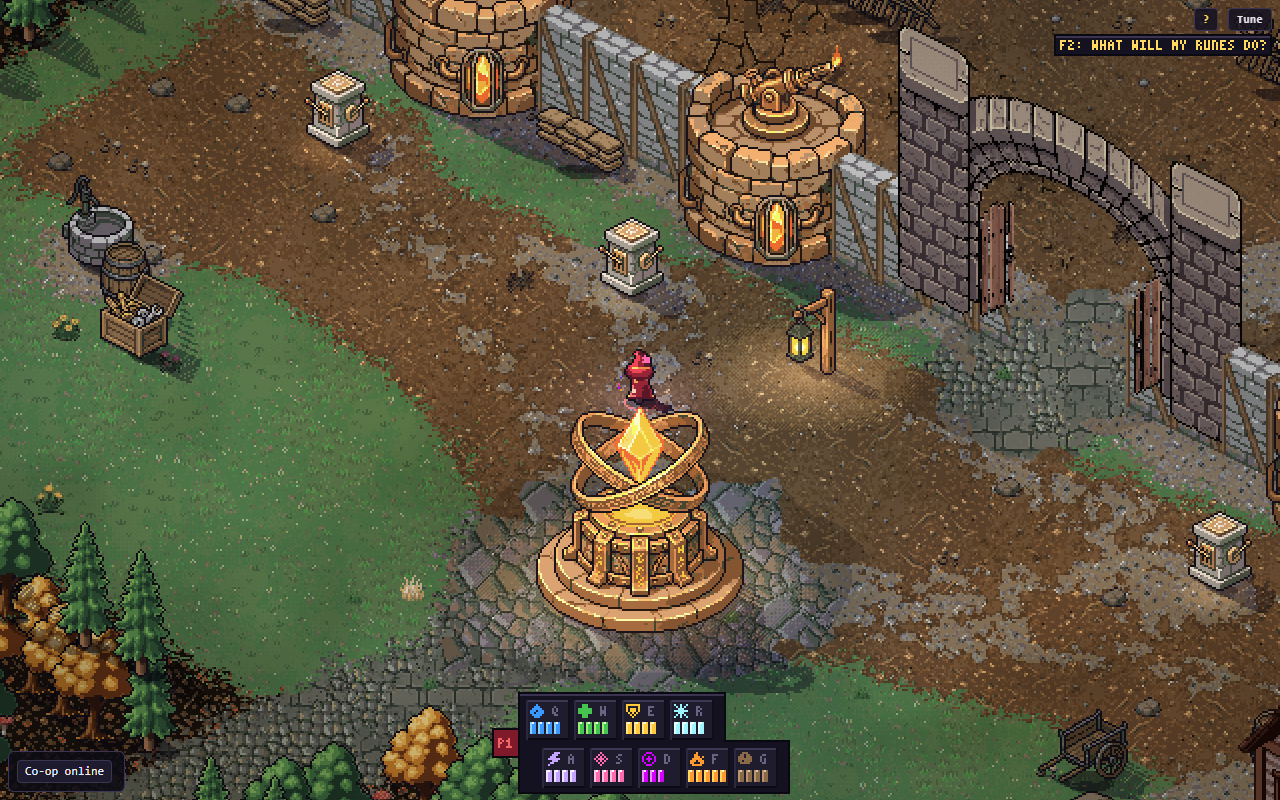
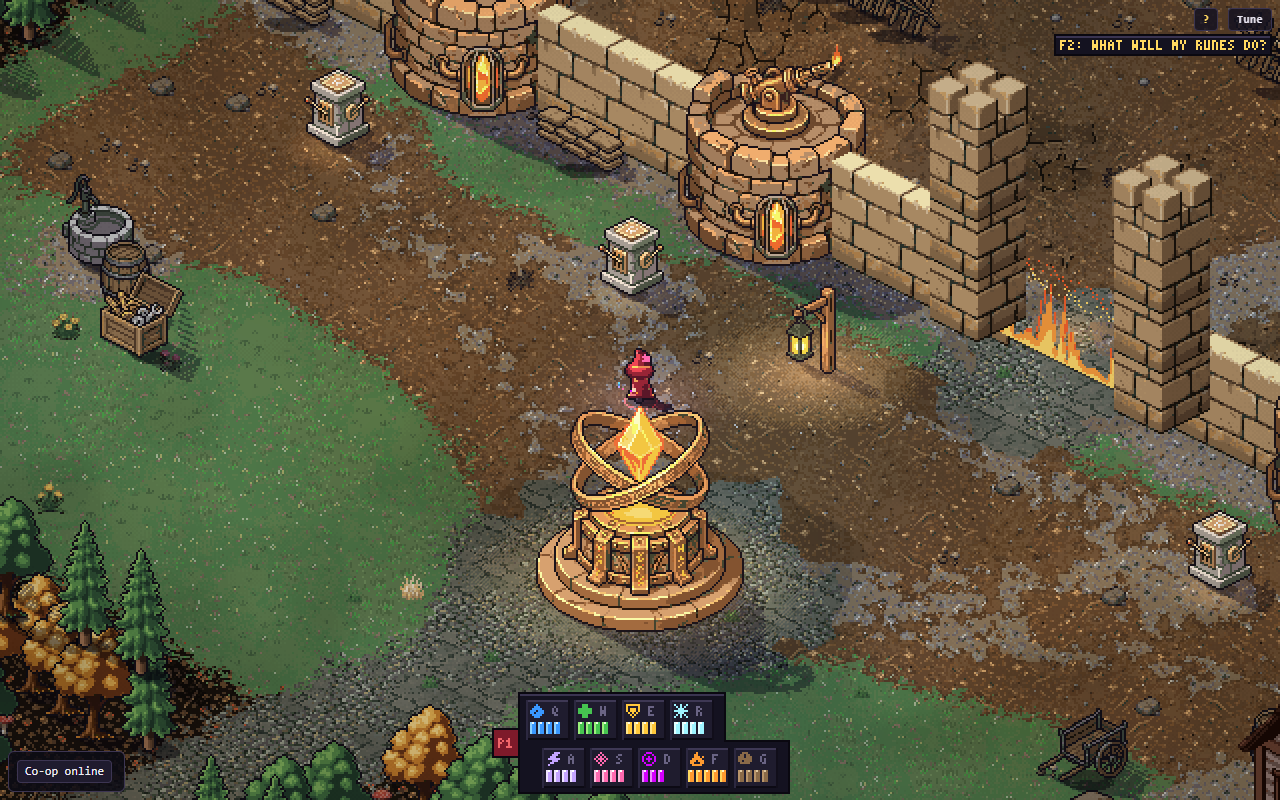
The battery's wall and gate come from a new fortress kit
Sandstone to match the defence towers (10 generations). The gate is two pillars with the wall of fire between them, taller flames. Golden hash unchanged.

Claude-Session: https://claude.ai/code/session_01JAzvjmRJ1wdD5eYGXNht1d

diff --git a/tools/segments/01-opening/segment.js b/tools/segments/01-opening/segment.js
@@ -13,8 +13,6 @@ stages:[
  ['Brief','draft'],['Beat chart','draft'],['Space diagram','review'],['Blockout','started','The battery is walkable'],['Script','later'],['Dressing','started','General art bought'],['Finish','later'],
 ],
 needsYou:[
- ['#buy-fort',`A full set of outdoor fortifications, in stone that matches the towers. It needs your Approve.`],
- ['#solve-battery-fire-gate',`The gate is now a wall of fire. Should it go out when the well runs dry?`],
  ['#beat-4',`Walk the battery and tell me what still feels off.`],
 ],
 onMe:[`Driving a defence: take control, cast from the tower, and the pool that fails.`,`Redraw the yard from your notes.`,`Revisit the pacing of the walks now that they can be long.`],
@@ -51,7 +49,7 @@ chapters:[
  solve:[
  ]},
 {id:'battery',name:'The battery',
- shots:[['img/battery-gate.png','The kit-built gate through the wall with the well in the rear yard and towers either side','The rear yard, from the gate. Built, and walkable.'],['img/battery-crews.png','A wizard in the rear yard between the wall towers and the well','Where the crews stand: a pedestal for each tower.'],['img/battery-north.png','The gate and wall towers seen from the north side of the wall','The gate from the killing ground, in the same stone as the wall.']],
+ shots:[['img/battery-gate.png','The sandstone wall and two pillars with fire between them, the well in the rear yard','The rear yard, from the gate. Built, and walkable.'],['img/battery-crews.png','A wizard in the rear yard between the wall towers and the well','Where the crews stand: a pedestal for each tower.'],['img/battery-north.png','The pillars, fire and wall towers seen from the north side of the wall','The gate from the killing ground: two pillars, with the wall of fire between them.']],
  map:{W:84,H:72,base:'grass',what:`The first job. You drive a defence on the wall until it runs dry, then go out through the gate on your own power.`,
   route:[[42,72],[42,62],[29,43],[42,42],[42,26],[64,10],[64,0]],
   views:[['Driving a defence',29,26],['Your own body',29,44],['Out the gate',42,24]],
@@ -78,7 +76,8 @@ chapters:[
  [`More air.`,` The area is now 84 × 72. The defences stand 13 apart, the rear yard is half as deep again, the well sits 19 back from the wall, and the stores keep to their own corner.`],
  [`Tower size is right,`,` at about three and a half wizards wide.`],
  [`The towers don't all have to fit one screen.`,` A neighbouring pair fits at 1080p, and that's fine.`],
- [`The gate is a wall of fire,`,` Shield + Fire + Fire, the same spell a wizard casts. You can walk through it and it burns you. The stonework around it is a stand-in from the wall kit.`],
+ [`The gate is a wall of fire,`,` Shield + Fire + Fire, the same spell a wizard casts. You can walk through it and it burns you. It burns between two pillars of the same sandstone as the wall.`],
+ [`The fire goes out with the well.`,` It's fed by the same well, so it gutters when the pool runs dry at beat 6, and that's how the enemies get through at beat 7. You never have to cross it while it's lit.`],
  [`Stone paving follows the ground's angle,`,` so the cobbles at the gate, the road and the well no longer look top-down.`],
  [`One lane per player.`,` Each wave sends the same number of enemies at each occupied defence, and they go for their own lane's defence first. Neighbouring reach overlaps so players can help. Solo is one lane at the centre.`],
  [`Each wave is built for one Fire attack.`,` Archers beyond spray reach call for Place, a swarm of small enemies for the burst, something heavy at the wall for the flamethrower. Wave sizes wait for the flamethrower and burst balance.`],
@@ -86,7 +85,6 @@ chapters:[
  [`The repair.`,` You take part, or do it yourselves, with a simple "press X to stabilize". The screen fades to black and back, and the well has changed: Unstable, then Drained, then Stable.`],
  ],
  solve:[
- {id:'battery-fire-gate',title:'What the wall of fire does in the story',body:`The gate is closed by a standing wall of flame. It fits the place: Fire defences, fed by a Fire well. Right now it burns forever, and it burns you too.`,proposal:`It's fed by the same well, so when the pool runs dry at beat 6 the fire gutters and goes out with it. That makes the failure visible along the wall, and it's how the enemies get through at beat 7. You never have to cross it while it's lit, so burning you is fine. It also shows the player Shield + Fire long before they own those runes.`},
  ]},
 ],
 rules:[
@@ -96,16 +94,14 @@ rules:[
  ['Four wizards fit.',' A Fire ring is 3 units in radius, so a fight wants about 6 units per player, and a room at least 24 by 18.'],
  ['Walks vary, and some are long.',' Sometimes you walk a while before anything happens, because that makes the world feel real. You cross a screen in about 7 seconds.'],
 ],
-buy:[{id:'job-fort',anchor:'buy-fort',name:`Outdoor fortifications`,cost:19,costLabel:'About 19 generations, not bought',tool:'Two steps: one building kit (15 generations) and up to four tries at the gate (1 each, using the new wall as a style reference). Nothing is bought until you mark Approve.',
- why:`The wall we have came from a tool that makes walls for buildings: square tiles and timber bracing, closer to a barn than a fortress. That's why the gate looks boxy. This buys a set made for the job.`,
+buy:[{id:'job-fort',anchor:'buy-fort',name:`Outdoor fortifications`,cost:10,costLabel:'10 generations',tool:'Bought. One building kit at 48 px, in the stone of the defence towers. The gate tries were not needed, so that part was not spent.',
+ why:`The wall, the gate and the towers now share one warm sandstone. The kit also has corners, wall ends, pillars and stairs for later.`,
  points:[
-  [`What you'd get.`,` Straight wall, corners, wall ends, pillars and stairs up to the wall, from the kit, and a proper arched gatehouse on top of that.`],
-  [`The stone.`,` Warm tan sandstone, to match the defence towers. Right now the grey wall and tan towers don't belong together.`],
-  [`No doors.`,` The opening is closed by the wall of fire, so the arch stands open.`],
-  [`The risk.`,` PixelLab's help says it can't guarantee one large object lines up with the isometric axis, so some gate tries may come back at the wrong angle. The kit pieces don't have that problem, and if every gate try fails I'd build the arch from the new kit's pieces.`],
+  [`The gate is two pillars`,` with the wall of fire between them, as you suggested. They're stacked from the kit's blocks.`],
+  [`Battlements.`,` The generator ignored the word, so the wall tops are flat. The stones on top of the pillars are added by hand. I can do the same along the wall if you want it.`],
  ],
- lines:['Kit, walls: A massive outdoor fortress curtain wall of large warm tan sandstone blocks, rough-dressed and weathered, with dark mortar lines and crenellated battlements along the top. Kit, floor: trampled packed earth. Kit, upper floor: worn tan flagstones. Isometric, 48 px tiles, walls 2 tiles high, our palette.','Gate: A fortified gatehouse in 2:1 isometric view, its wall running from the upper left down to the lower right. Two square towers of large warm tan sandstone blocks with crenellated tops, joined by a tall rounded stone arch over an open passage. Medieval fantasy fortification. Hi-bit pixel art, dark outline.'],
- images:[['img/battery-gate.png','The stand-in gate built from the wall kit, two square stone pylons and a stone span with flames burning in the opening','The stand-in in the game now, with the wall of fire in its opening.']]},
+ lines:['Kit, walls: A massive outdoor fortress curtain wall of large warm tan sandstone blocks, rough-dressed and weathered, with dark mortar lines and crenellated battlements along the top. Kit, floor: trampled packed earth. Kit, upper floor: worn tan flagstones. Isometric, 48 px tiles, walls 2 tiles high, our palette.'],
+ images:[['img/battery-gate.png','The sandstone wall, the gate of two battlemented pillars with fire between them, and a defence tower','In the game.'],['img/fortress-kit.png','Sandstone wall pieces, corners, a pillar, a doorway and stairs from the new kit','Some of the kit.']]},
 {id:'job-well',anchor:'buy-well',name:`The well`,cost:14,costLabel:'10 generations',tool:'Bought. Candidate 2 of the four is in the battery as a stand-in, so say if you would rather have another. The column of light and the states are still to come.',
  why:`Not a hole in the ground. Your images are structures that hold up a column of light, so I've dropped the ring-around-a-basin idea.`,
  points:[

diff --git a/game/packages/client/src/art/wall-kit.ts b/game/packages/client/src/art/wall-kit.ts
@@ -45,7 +45,7 @@ const urlOf = new Map(Object.entries(urls).map(([path, url]) => [path.split('/')
  * The kit a room's straight walls are built from. Rooms not listed keep the drawn walls: tall kit walls
  * hide the action in an open arena like Survive, and its angled walls have no kit pieces to match.
  */
-const ROOM_KIT: Readonly<Record<string, string>> = { academy: 'academy', battery: 'fortification' };
+const ROOM_KIT: Readonly<Record<string, string>> = { academy: 'academy', battery: 'fortress' };
 export const kitOf = (room: string): string | undefined => ROOM_KIT[room];
 
 /** Areas whose wall runs through the middle, not round the edge: it faces you and stands full height wherever it is. */

diff --git a/game/packages/client/src/view-structures.ts b/game/packages/client/src/view-structures.ts
@@ -39,7 +39,7 @@ import { drawTutorialWorld } from './tutorial-view';
 import { kitOf, kitRun, stampTexture, wallsAllFar } from './art/wall-kit';
 
 /** A wall of fire that belongs to the place (the battery's gate) stands this much taller than a cast one. */
-const GATE_FIRE = 2.2;
+const GATE_FIRE = 3.4;
 import { toX, toY } from './iso-world';
 import { RISE_STEPS, SLAB_OX, SLAB_OY, SlabCache, facePoint, paintSlab, wallGeom, type WallGeom, type WallSpec } from './art/walls';
 

diff --git a/tools/art-import/defence.py b/tools/art-import/defence.py
@@ -14,7 +14,7 @@ from props import ASSETS, RAWREL, ROOT, register, trim
 
 DEFENCE = f'{RAWREL}/defence'
 WELL_RAW = f'{RAWREL}/well/candidate-1.png'
-KIT_RAW = f'{RAWREL}/kit-fortification'
+KIT_RAW = f'{RAWREL}/kit-fortress'
 FOOTPRINT = [5.0, 5.0]
 HEAD_FOOTPRINT = [1.0, 1.0]
 PIECES = [
@@ -28,38 +28,33 @@ PIECES = [
 
 
 def kit_gate():
-    """The gate, assembled from the fortification kit the wall is built from, so it is true isometric in the wall's own stone.
-    Two pylons of solid blocks, two tiles square and a storey and a bit tall, either side of a three-tile opening with a
-    full-depth stone span over it. A tile (i, j): +i runs along the wall, down and to the right on screen; +j runs north, up and to the right.
-    The wall's line is the north edge of row j = 0. Every piece's top diamond vertex is at (38, 55) in its 76 x 86 canvas."""
+    """The gate: two tall pillars from the fortress kit either side of the opening, which the wall of fire fills. Each is a
+    solid block stacked up, standing across the wall's line, with four battlement stones on top (the kit's pillar, cut short).
+    A tile (i, j): +i runs along the wall, down and to the right on screen; +j runs north, up and to the right. Every piece's
+    top diamond vertex is at (38, 55) in its 76 x 86 canvas."""
     raw = os.path.join(ROOT, KIT_RAW)
     piece = lambda n: Image.open(os.path.join(raw, f'tile_{n:02d}.png')).convert('RGBA')
-    BLOCK = piece(52)
-    LEFT, RIGHT, OPEN = [0, 1], [5, 6], [2, 3, 4]
-    PYLON_STOREY, SPAN_LIFT, CUT = 30, 22, 28    # art px: the second block's rise, the span's, and how much of a block's foot is cut away for the opening
-    O = (70, 150)
+    BLOCK, PILLAR = piece(53), np.array(piece(31))
+    STOREYS = [0, 30, 60]                       # art px each block rises
+    CENTRE, HALF_OPENING = 3.5, 3 / 2.12        # tiles: the opening is 6 units, a tile 2.12
+    O = (70, 190)
     G = lambda i, j: (O[0] + 24 * i + 24 * j, O[1] + 12 * i - 12 * j)
-    a = np.array(BLOCK)
-    span = np.zeros_like(a)
-    for x in range(a.shape[1]):
-        ys = np.where(a[:, x, 3] > 0)[0]
+    merlon = np.zeros_like(PILLAR)
+    for x in range(PILLAR.shape[1]):
+        ys = np.where(PILLAR[:, x, 3] > 0)[0]
         if len(ys):
-            end = ys[-1] - CUT
-            span[ys[0]:end + 1, x] = a[ys[0]:end + 1, x]
-            span[max(ys[0], end - 2):end, x] = (118, 88, 60, 255)    # a timber under the stone, as on the wall's bracing
-            span[end, x] = (42, 30, 22, 255)
-    span = Image.fromarray(span)
-    out = Image.new('RGBA', (380, 300))
-    for j in (1, 0):
-        for i in LEFT + OPEN + RIGHT:
-            x, y = G(i, j)
-            if i in OPEN:
-                out.alpha_composite(span, (x - 38, y - 55 - SPAN_LIFT))
-            else:
-                out.alpha_composite(BLOCK, (x - 38, y - 55))
-                out.alpha_composite(BLOCK, (x - 38, y - 55 - PYLON_STOREY))
+            merlon[ys[0]:ys[0] + 20, x] = PILLAR[ys[0]:ys[0] + 20, x]
+    merlon = Image.fromarray(merlon)
+    out = Image.new('RGBA', (380, 340))
+    for i in (CENTRE - HALF_OPENING - 1, CENTRE + HALF_OPENING):
+        x, y = (int(round(v)) for v in G(i, .5))
+        for rise in STOREYS:
+            out.alpha_composite(BLOCK, (x - 38, y - 55 - rise))
+        top = STOREYS[-1] + 8
+        for dx, dy in ((0, -7), (-15, 0), (15, 0), (0, 7)):   # back, left, right, front: far to near
+            out.alpha_composite(merlon, (x - 38 + dx, y - 55 - top + dy))
     box = out.getchannel('A').getbbox()
-    fx, fy = G(3.5, 0)
+    fx, fy = G(CENTRE, 0)
     return out.crop(box), int(fx - box[0]), int(fy - box[1])
 
 
@@ -79,7 +74,7 @@ def main():
     # The gatehouse stands across the wall. The level puts its spot 3.5 u down the screen and `lift` raises the art back
     # by the same 40 px, so it sorts in front of the wall pieces that join it.
     im, foot_x, foot_y = kit_gate()
-    register('battery-gatehouse', 'Gatehouse (battery)', [7.0, 1.0], im, f'{KIT_RAW}/tile_52.png', 'create_building_kit', 'assembled from the fortification kit: block 52 for the pylons, and cut off at the foot for the span over the opening', foot=[foot_x, foot_y])
+    register('battery-gatehouse', 'Gatehouse (battery)', [7.0, 1.0], im, f'{KIT_RAW}/tile_53.png', 'create_building_kit', 'assembled from the fortress kit: block 53 stacked for two pillars, its pillar piece cut short for battlements', foot=[foot_x, foot_y])
     meta = os.path.join(ASSETS, 'battery-gatehouse', 'meta.json')
     m = json.load(open(meta))
     m['lift'] = 40  # drawn 40 px above its spot: the art is on the wall line, and it sorts in front of the pieces that join it

diff --git a/tools/art-import/kits.py b/tools/art-import/kits.py
@@ -13,7 +13,7 @@ from PIL import Image
 HERE = os.path.dirname(os.path.abspath(__file__))
 RAW = os.path.join(HERE, '../../game/content/generated/pixellab/opening')
 OUT = os.path.join(HERE, '../../game/content/assets/kits')
-KITS = {'academy': 'kit-academy', 'fortification': 'kit-fortification'}
+KITS = {'academy': 'kit-academy', 'fortification': 'kit-fortification', 'fortress': 'kit-fortress'}
 # piece index in the kit: north, west, south, east side of a tile
 PIECES = {'n': 1, 'w': 4, 's': 3, 'e': 2}
 # how high the near walls stand, art px above their ground line

diff --git a/docs/decisions/README.md b/docs/decisions/README.md
@@ -1135,3 +1135,5 @@ The user asked for an audit of how spells scale with extra runes, and for it to 
 - **The gate is built from the wall's own kit** (the user: its colour and brickwork didn't match, and the doors looked flat). It replaces the re-angled gatehouse. Two block pylons and a stone span, with no doors for now. An arched version is written up on the page, optional. Cobble is now sampled along the ground's angle, as it looked top-down.
 - **The gate is a wall of fire** (the user: Shield + Fire + Fire, "it fits with the theme"). It's the game's own curtain, owned by the place, so it never drains anyone. That it goes out when the well runs dry is a proposal on the page.
 - **The kit-built gate is a stand-in.** The user found its square shapes clunky. A set of outdoor fortifications is written up on the page, not bought.
+- **The wall of fire goes out when the well runs dry** (agreed with the user), at beat 6, which is how the enemies get through at beat 7. The fortifications are approved; the gate can be two pillars or an arch.
+- **The battery has its own fortress kit,** in sandstone that matches the defence towers (10 generations). The gate is two pillars from it with the wall of fire between them (the user: it needn't be an arch), so the gate tries weren't bought.
